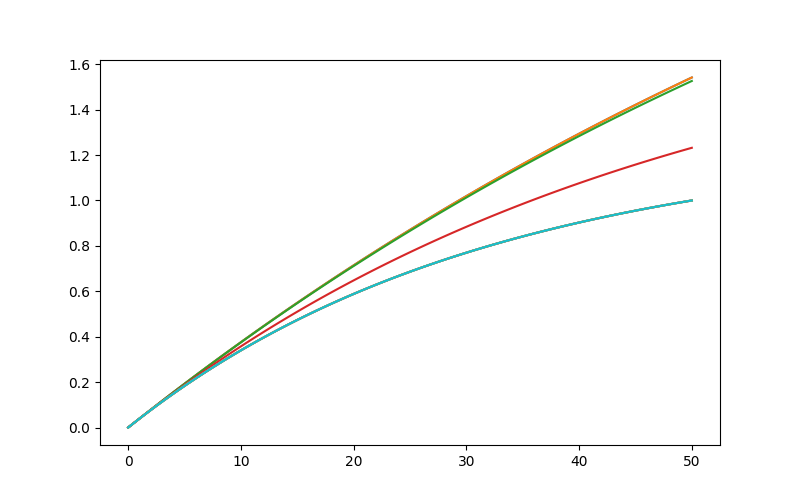
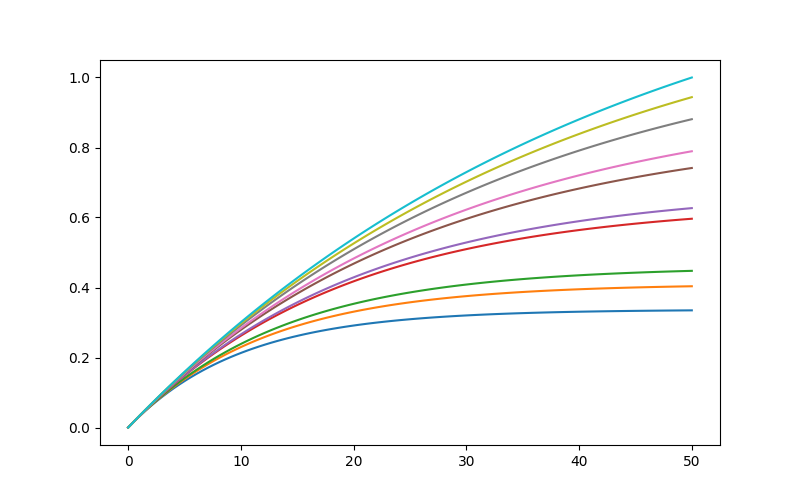
rel err under control

diff --git a/main.py b/main.py
@@ -11,50 +11,48 @@ from math import ceil
 
 history = pd.read_csv('./../data/04_cricket_1999to2011.csv')
 
-def find_total(data, wickets, overs):
-	total = []
-	l = len(data['Over'])
-	for i, over in enumerate(data['Over']):
-		if over == 50-overs and data['Wickets.in.Hand'][i] == wickets:
-			total.append(data['Innings.Total.Runs'][i])
-	return total
+def set_overs_played():
+	op_, start, overs = [], 0, history['Over']
+	for i,over in enumerate(overs):
+		if i == 0:
+			continue
+		if over == 1:
+			played = overs[i-1]
+			op_.append([played]*(i-start))
+			start = i
+	op, l = [], len(overs)
+	op_.append([overs[l-1]]*(l-start))
+	for sublist in op_:
+		for item in sublist:
+			op.append(item)
+	return op
 
+
+op = set_overs_played()
 
 def create_table():
 	table = []
 	d = {}
 	for over_rem in range(50):
-		for wckt_lost in range(10):
-			d[(over_rem, wckt_lost)] = []
+		for wckt_rem in range(11):
+			d[(over_rem, wckt_rem)] = []
 	for i, over in enumerate(history['Over']):
-		w = history['Wickets.in.Hand'][i]
-		if w > 0:
-			d[(50-over, 10-w)].append(history['Runs.Remaining'][i])
+		if history['Innings'][i] == 1:
+			w = history['Wickets.in.Hand'][i]
+			d[(op[i]-over, w)].append(history['Runs.Remaining'][i])
 	for over_rem in range(50):
 		row = []
-		for wckt_lost in range(10):
-			if d[(over_rem, wckt_lost)] != []:
-				row.append(ceil(avg(d[(over_rem, wckt_lost)])))
+		for wckt_rem in range(11):
+			if d[(over_rem, wckt_rem)] != []:
+				row.append(ceil(avg(d[(over_rem, wckt_rem)])))
 			else:
 				row.append(-1)
 		table.append(row)
+		print table[over_rem]
 	return table
 
 
 table = create_table()
-for over_rem in range(50):
-		print(over_rem, table[over_rem])
-
-def set_data(data, wickets):
-	xdata, ydata, rate = [], [], []
-	for overs in range(1, 51):
-		runs = find_total(data, wickets, overs)
-		if runs != []:
-			xdata.append(overs)
-			ydata.append(avg(runs))
-			l = len(xdata)-1
-			rate.append(ydata[l]/xdata[l])
-	return [xdata, ydata, rate]
 
 def prod(u, Z0, L):
 	return Z0*(1-exp(-L*u/Z0))
@@ -62,19 +60,11 @@ def prod(u, Z0, L):
 def P(u, Z0, Z, L):
 	return prod(u, Z0, L)/prod(50, Z, L)
 
-def fit(data, wickets):
-	z0, l = curve_fit(prod, *set_data(data, wickets)[:-1])[0]
-	return [z0, l]
-
-over = {}
-z = {}
-for w in range(1, 11):
-	over[w], z[w] = set_data(history, w)[0:2]
 
 def loss(Z): 
 	s = 0
 	for over_rem in range(50):
-		for wckt_lost in range(10):
+		for wckt_lost in range(11):
 			t = table[over_rem][wckt_lost]
 			if t != -1:
 				s = s + (prod(over_rem, Z[wckt_lost-1], Z[10]) - t)**2
@@ -83,14 +73,19 @@ def loss(Z):
 x0 = []
 bnds = []
 for i in range(10):
-	x0.append(100)#i*25)
-	bnds.append((150,450))
-x0.append(0.1)
-print x0
+	x0.append(i*30)
+	bnds.append((10, 5000))#(i*30,(i+1)*30))
+x0.append(5)
 bnds.append((0,None))
-print x0
 res = minimize(loss, x0, bounds=bnds)#, tol = 1e-6)
-print res.x
+print res
+
+fig, ax = plt.subplots(figsize=(8,5))
+X = np.linspace(0, 50, 100)
+for i in range(10):
+	Y = P(X, res.x[i], res.x[9], res.x[10])
+	ax.plot(X, Y)
+plt.savefig('img_name' + '.png')
 
 fig, ax = plt.subplots(figsize=(8,5))
 X = np.linspace(0, 50, 100)
@@ -101,3 +96,22 @@ plt.savefig('img_name' + '.png')
 
 print(loss(res.x))
 
+
+def error(w,):
+	s, d = 0, 0
+	for over in range(50):
+		t = table[over][w]
+		if t != -1 and t != 0:
+			s = s + (prod(over, res.x[w-1], res.x[10])-t)**2
+			d = d + (t)**2
+	fig, ax = plt.subplots(figsize=(8,5))
+	X = list(range(50))
+	Y = [table[x][w] for x in X]
+	ax.scatter(X,Y)
+	Y = [prod(x, res.x[w-1], res.x[10]) for x in X]
+	ax.plot(X, Y)
+	plt.show()
+	return [d**0.5, 100*(s/d)**0.5]
+
+
+print error(6)
